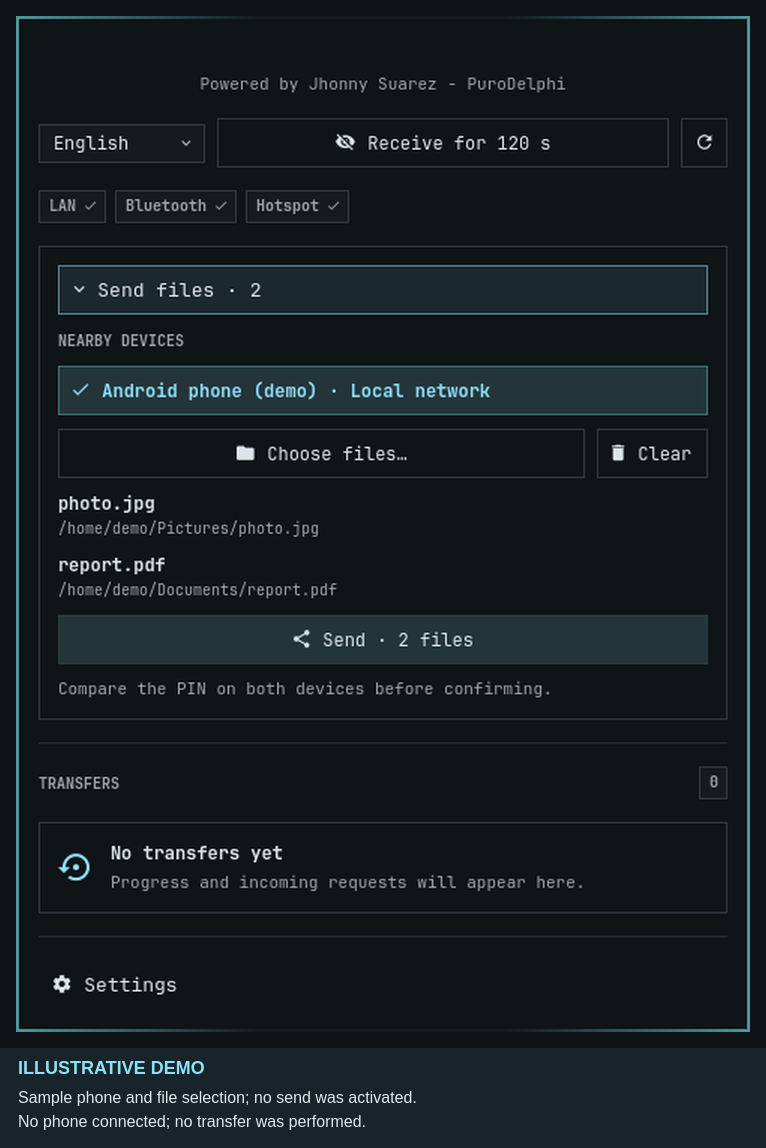
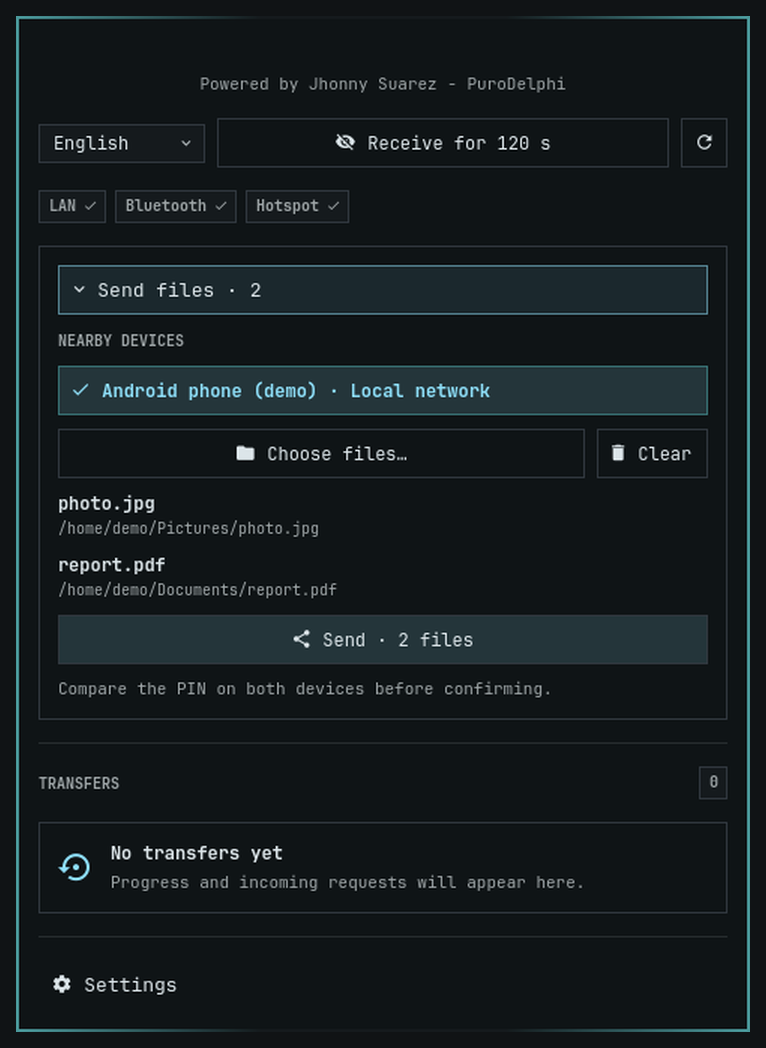
Clean documentation screenshots and remove demonstration annotations

diff --git a/docs/USER_GUIDE.md b/docs/USER_GUIDE.md
@@ -4,8 +4,6 @@
 
 Omarchy Quick Share connects your desktop to Android's existing Quick Share. The phone does not need a companion application. The desktop panel uses Omarchy's theme and supports English and Español.
 
-**About the screenshots:** these are captures of the actual Omarchy plugin and Nautilus interface. Screens marked **ILLUSTRATIVE DEMO** use sample devices, files, verification codes and progress to explain the workflow; they are not live transfer results. Never reuse the example verification code. Your theme and language may change the appearance.
-
 ## Before sharing
 
 - Complete **Install service** from the panel and wait for **Ready**.
@@ -20,7 +18,7 @@ Transport availability depends on the radio, network and permissions. The transf
 1. On the PC, open the Quick Share panel.
 2. Select **Receive for 120 s**. The bar shows the remaining visibility time.
 
-![PC control for temporary Quick Share visibility — illustrative demo](assets/screenshots/01-receive-visibility.png)
+![PC control for temporary Quick Share visibility](assets/screenshots/01-receive-visibility.png)
 
 *Use Receive for 120 s when the phone will send to this PC. The image shows the button before activation; once enabled, it shows the remaining visibility time.*
 
@@ -30,9 +28,9 @@ Transport availability depends on the radio, network and permissions. The transf
 6. Compare the code shown on both devices.
 7. On the PC, accept only if the code matches and the offered files are expected.
 
-![Incoming file offer, verification code and consent buttons — illustrative demo](assets/screenshots/02-incoming-pin.png)
+![Incoming file offer, verification code and consent buttons](assets/screenshots/02-incoming-pin.png)
 
-*The incoming card is where you compare the code and choose PIN matches · accept or Reject. Accept only the request you expect, using the code currently shown on both devices—not the example above.*
+*The incoming card is where you compare the code and choose PIN matches · accept or Reject. Accept only the request you expect, using the code currently shown on both devices.*
 
 You can reject an unwanted offer. Incoming notifications work with the panel closed; open the request to inspect it and handle consent.
 
@@ -47,7 +45,7 @@ Visibility is temporary. Its expiry stops new discovery offers, not an already e
 5. Compare the verification code on both devices.
 6. Approve the request on each device when prompted.
 
-![Two files selected and an Android destination ready for sending — illustrative demo](assets/screenshots/03-send-files.png)
+![Two files selected and an Android destination ready for sending](assets/screenshots/03-send-files.png)
 
 *The selected device is highlighted. Review both the destination and the file list before using Send; choosing files alone does not start a transfer.*
 
@@ -57,7 +55,7 @@ A manually selected destination that disappears is cleared, not replaced with an
 
 Select one or multiple local files, right-click and choose **Send via Quick Share**. This opens the panel with the exact selection; you still control the destination, Send and consent.
 
-![Two local example files selected in Nautilus with Send via Quick Share in the context menu](assets/screenshots/06-nautilus-menu.png)
+![Two local files selected in Nautilus with Send via Quick Share in the context menu](assets/screenshots/06-nautilus-menu.png)
 
 *Select the files first, then right-click the selection. Send via Quick Share hands that selection to the desktop panel; it does not send immediately.*
 
@@ -69,9 +67,9 @@ After installing or updating the Python extension, save work in all Nautilus win
 
 Cards show byte progress, the active transport and the terminal result. Use **Cancel** to stop an active transfer. Closing the panel does not cancel it, and the Rust service continues independently of the shell.
 
-![Transfer card showing byte progress, transport and Cancel — illustrative demo](assets/screenshots/04-transfer-progress.png)
+![Transfer card showing byte progress, transport and Cancel](assets/screenshots/04-transfer-progress.png)
 
-*The card identifies the active medium and the bytes transferred. Cancel is the explicit stop action; closing the panel is not. The pictured progress is illustrative.*
+*The card identifies the active medium and the bytes transferred. Cancel is the explicit stop action; closing the panel is not.*
 
 **Cancelling…** indicates a request in progress, not fabricated completion. A disconnected peer produces a failed transfer rather than a completed file.
 
@@ -85,7 +83,7 @@ If the service is missing or incompatible, setup controls appear automatically. 
 2. Scroll back toward the top to find the **Service** section.
 3. Choose **Install service**, **Update service** or **Remove service** as appropriate. A dedicated terminal explains the action and any authorization it needs.
 
-![Expanded service controls for installation, update and removal — illustrative demo](assets/screenshots/05-service-controls.png)
+![Expanded service controls for installation, update and removal](assets/screenshots/05-service-controls.png)
 
 *These buttons maintain the Rust backend and Nautilus registration. Omarchy's native plugin commands maintain the Git plugin itself; see [Installation and maintenance](INSTALLATION.md) for the complete lifecycle.*
 

diff --git a/README.md b/README.md
@@ -13,7 +13,7 @@ Send photos, videos and files between your Android phone and Omarchy using the p
 - **Stay in control:** compare the code, approve incoming files, follow progress and cancel explicitly.
 - **English or Español:** choose your language in the panel.
 
-The workflow screenshots below show the actual plugin with **illustrative sample data**. Device names, files, verification codes and progress are examples, not live transfer results. See the [pictured user guide](docs/USER_GUIDE.md) for the full walkthrough.
+See the [pictured user guide](docs/USER_GUIDE.md) for the full walkthrough.
 
 ## Install
 
@@ -36,9 +36,9 @@ After first setup, save work and restart Nautilus to load its extension.
 3. Compare the code on both devices.
 4. Accept the request on the PC only if the code matches.
 
-![Incoming Quick Share request with verification code and Accept/Reject controls — illustrative demo](docs/assets/screenshots/02-incoming-pin.png)
+![Incoming Quick Share request with verification code and Accept/Reject controls](docs/assets/screenshots/02-incoming-pin.png)
 
-*Compare the code on both devices before accepting. The pictured code is an example, not a code to reuse.*
+*Compare the code on both devices before accepting.*
 
 Received files go to your configured download folder. You can change it in the panel.
 
@@ -49,9 +49,9 @@ Received files go to your configured download folder. You can change it in the p
 3. Select the phone if several destinations are available; a sole destination is selected automatically.
 4. Press **Send**, compare the code and approve the transfer on both devices.
 
-![Android destination selected with two files ready to send — illustrative demo](docs/assets/screenshots/03-send-files.png)
+![Android destination selected with two files ready to send](docs/assets/screenshots/03-send-files.png)
 
-*Check the destination and file selection, then press Send. The selected phone and files are examples.*
+*Check the destination and file selection, then press Send.*
 
 Opening the panel never sends a file automatically. Closing it does not stop an active transfer; use **Cancel** when you want to stop.
 
